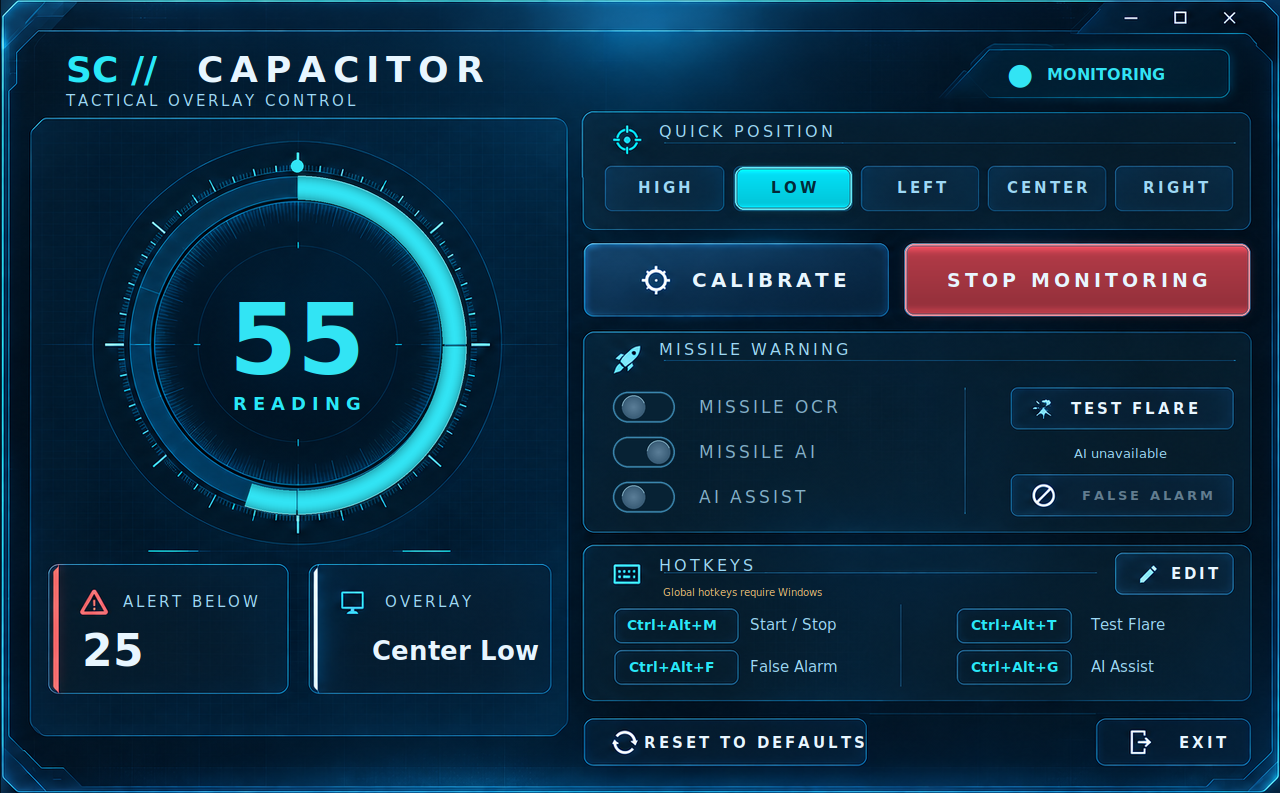
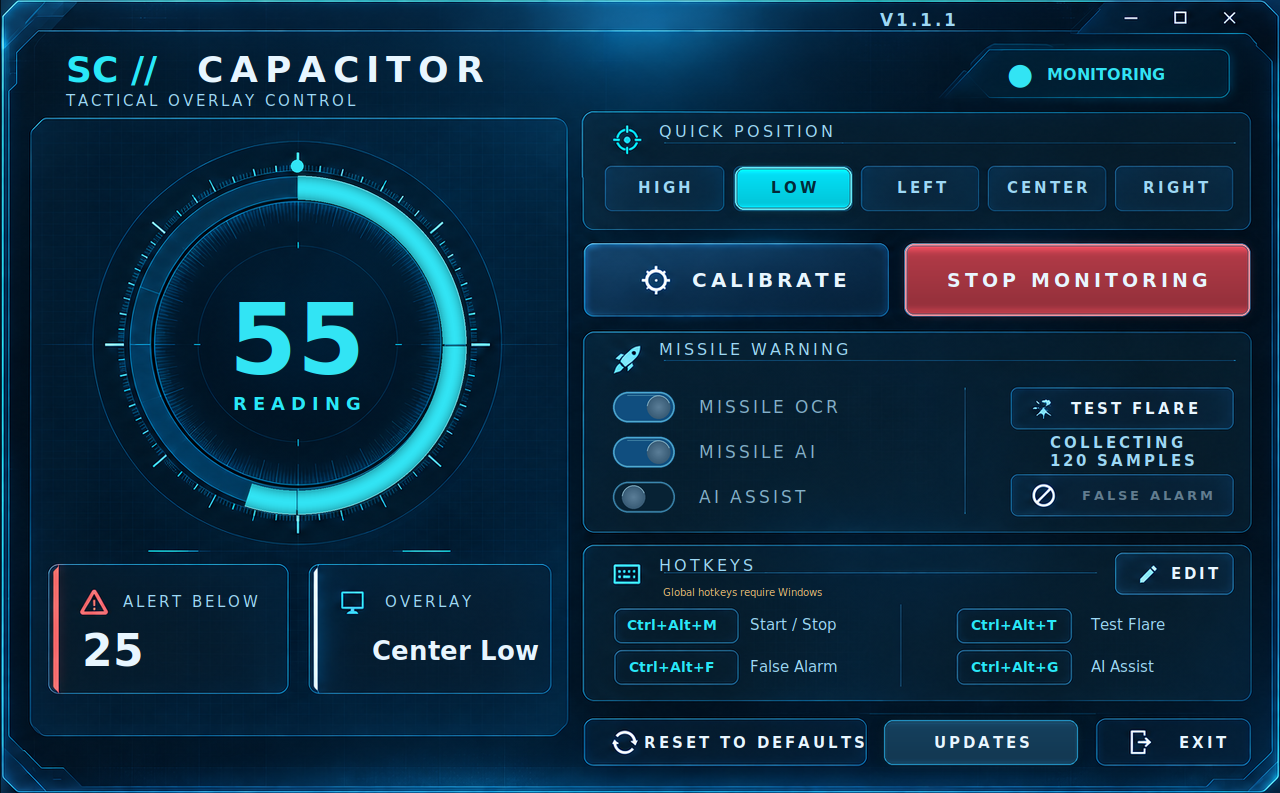
More UI Updates
Updated tet and ui buttons

diff --git a/glass_skin.py b/glass_skin.py
@@ -16,7 +16,7 @@ def rgb(value):
     return tuple(int(value[i:i+2], 16) for i in (1,3,5))
 
 
-def glass_button(width, height, color):
+def glass_button(width, height, color, subtle=False):
     """Independent live-state glass artwork with a frosted bevel and soft glow."""
     scale = 2
     w, h = max(2,int(width*scale)), max(2,int(height*scale))
@@ -33,9 +33,9 @@ def glass_button(width, height, color):
     ImageDraw.Draw(mask).rounded_rectangle((2,2,w-3,h-3),radius=9*scale,fill=255)
     image.putalpha(mask)
     draw.rounded_rectangle((2,2,w-3,h-3),radius=9*scale,
-                           outline=tuple(min(255,int(c*.6+100)) for c in base)+(255,),width=2*scale)
+                           outline=(36,153,202,255) if subtle else tuple(min(255,int(c*.6+100)) for c in base)+(255,),width=scale if subtle else 2*scale)
     draw.rounded_rectangle((5,5,w-6,h-6),radius=7*scale,
-                           outline=tuple(min(255,int(c*.5+100)) for c in base)+(100,),width=scale)
+                           outline=(75,176,222,65) if subtle else tuple(min(255,int(c*.5+100)) for c in base)+(100,),width=scale)
     # Blur the padded layer so the light fades out, without a rectangular cutoff.
     result=Image.new('RGBA',(w+32*scale,h+32*scale))
     result.alpha_composite(image,(16*scale,16*scale))
@@ -95,10 +95,10 @@ class Button(Label):
         x1,y1,x2,y2=self.box
         style=self.style if not self.disabled else None
         if style:
-            color='#fa5264' if style=='red' else '#03def4'
+            color={'red':'#fa5264','glass':'#153f5c'}.get(style,'#03def4')
             key=(round((x2-x1)*s.scale),round((y2-y1)*s.scale),color)
             if self._image_key!=key:
-                self._image=ImageTk.PhotoImage(glass_button(key[0],key[1],color))
+                self._image=ImageTk.PhotoImage(glass_button(key[0],key[1],color,subtle=style=='glass'))
                 self._image_key=key
             x,y=s.xy(x1,y1)
             s.canvas.create_image(x-16,y-16,image=self._image,anchor='nw',tags=self.tag)
@@ -135,8 +135,17 @@ class Toggle(Button):
             q=3
             im=Image.new('RGBA',(w*q,h*q))
             d=ImageDraw.Draw(im)
-            d.rounded_rectangle((1*q,3*q,70*q,37*q),radius=18*q,fill=(8,35,53,240),outline=(62,142,185,255),width=1*q)
-            d.rounded_rectangle((2*q,4*q,69*q,36*q),radius=16*q,outline=(83,162,203,130),width=q)
+            active=self.value
+            # The entire selected track lights blue, not just the moving knob.
+            fill=(13,112,185,255) if active else (8,35,53,240)
+            rim=(64,211,255,255) if active else (62,142,185,255)
+            if active and self.disabled:
+                fill=(16,78,127,255)
+                rim=(58,151,203,255)
+            d.rounded_rectangle((1*q,3*q,70*q,37*q),radius=18*q,fill=fill,outline=rim,width=1*q)
+            d.rounded_rectangle((2*q,4*q,69*q,36*q),radius=16*q,outline=(116,220,255,180) if active else (83,162,203,130),width=q)
+            if active:
+                d.line((17*q,7*q,53*q,7*q),fill=(111,207,255,145),width=q)
             cx=52 if self.value else 24
             for r in range(13,0,-1):
                 t=1-r/13
@@ -151,6 +160,18 @@ class Toggle(Button):
         color='#83afc8' if self.disabled else CYAN if self.value else DIM
         s.canvas.create_text(*s.xy(self.x,self.y),text=self.text,anchor='w',fill=color,
                             font=(FONT,-max(8,round(19*s.scale))),tags=self.tag)
+
+
+class StatusLabel(Label):
+    """Keep changing learner messages in the dashboard's uppercase typography."""
+    def draw(self):
+        original=self.text
+        message=str(original).upper().replace(' - ','\n').replace(' · ','\n')
+        self.text='\n'.join('\u2009'.join(line) for line in message.split('\n'))
+        try:
+            super().draw()
+        finally:
+            self.text=original
 
 
 class Gauge:
@@ -419,7 +440,7 @@ def build(app,module):
     app.ai_assist_toggle=Toggle(s,736,640,track('AI ASSIST'),app.toggle_ai_assist)
     app.test_flare_btn=Button(s,(1184,517,1434,564),track('TEST FLARE'),app.test_flare,17,text_x=1322)
     app.false_alarm_btn=Button(s,(1184,614,1434,662),track('FALSE ALARM'),app.ai_false_alarm,15,text_x=1337)
-    app.ai_status_label=Label(s,1306,590,'AI unavailable' if app.learner is None else 'collecting · 0 samples',15,DIM,'center',width=250)
+    app.ai_status_label=StatusLabel(s,1309,589,'AI unavailable' if app.learner is None else 'collecting · 0 samples',17,DIM,'center',bold=True,width=250)
     Label(s,187,758,track('ALERT BELOW'),17,DIM)
     app.threshold_label=Label(s,142,813,'--',49,WHITE,bold=True)
     Label(s,481,758,track('OVERLAY'),17,DIM)
@@ -429,8 +450,8 @@ def build(app,module):
     app.hotkey_label=Hotkeys(s,app,module)
     Button(s,(705,889,1023,942),track('RESET TO DEFAULTS'),app.reset_to_defaults,17,text_x=896)
     Button(s,(1280,889,1453,942),track('EXIT'),app.on_close,17,text_x=1398)
-    Button(s,(1041,889,1261,942),track('UPDATES'),lambda: app.updater.open_settings(),17)
-    Label(s,1122,105,'v'+module.__version__,12,DIM,anchor='e')
+    Button(s,(1041,889,1261,942),track('UPDATES'),lambda: app.updater.open_settings(),17,style='glass')
+    Label(s,1122,105,track('V'+module.__version__),19,DIM,anchor='e',bold=True)
     app.update_status_label=Label(s,1000,105,'',12,DIM,anchor='e')
     s.ready=True
     app.root.update_idletasks()

diff --git a/sc_capacitor_ocr.py b/sc_capacitor_ocr.py
@@ -19,7 +19,7 @@ RUN
   python sc_capacitor_ocr.py
 """
 
-__version__ = "1.1.0"  # bump this before publishing each GitHub release
+__version__ = "1.1.1"  # bump this before publishing each GitHub release
 
 import sys
 # Run the separate replacement helper before loading OCR/Tk or the application.

diff --git a/GITHUB_WALKTHROUGH.md b/GITHUB_WALKTHROUGH.md
@@ -1,6 +1,10 @@
 # Put SC Capacitor Overlay on GitHub and publish updates
 
-This package is version **1.1.0**, the first version with the updater.
+This package is version **1.1.1**. The updater was introduced in **1.1.0**.
+If you already published 1.1.0, copy this package's contents into your existing
+repository, commit and push the changes, then run Build Windows release. Test
+and publish the new v1.1.1 draft. Your installed 1.1.0 app can then update to it.
+The first-time setup examples below describe the original 1.1.0 release.
 
 A repository stores your source code. A commit saves a named snapshot on your PC.
 A push uploads those commits to GitHub. A release distributes the finished EXE.

diff --git a/README.md b/README.md
@@ -1,4 +1,11 @@
-# Glass Cockpit · v1.1.0
+# Glass Cockpit · v1.1.1
+
+## UI polish in 1.1.1
+
+The Updates button now has a frosted blue border, the version is larger and
+matches the dashboard typography, selected missile switches have a blue track,
+and learner status messages use matching uppercase lettering. Selected switches
+remain visibly blue when monitoring temporarily locks their controls.
 
 The controller now uses the frosted Glass Cockpit artwork, cyan frame lighting,
 glass buttons, and an illuminated live capacitor gauge. All labels, values,
